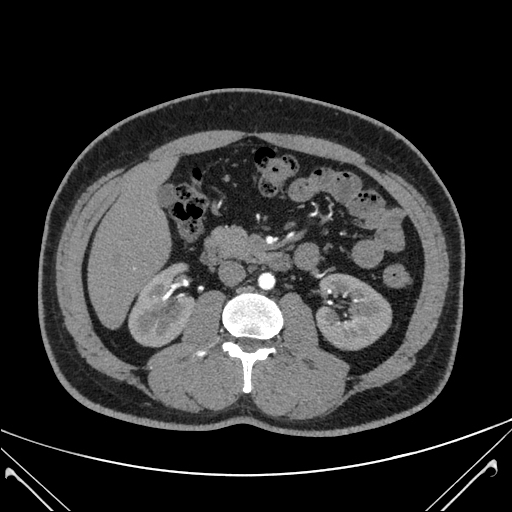
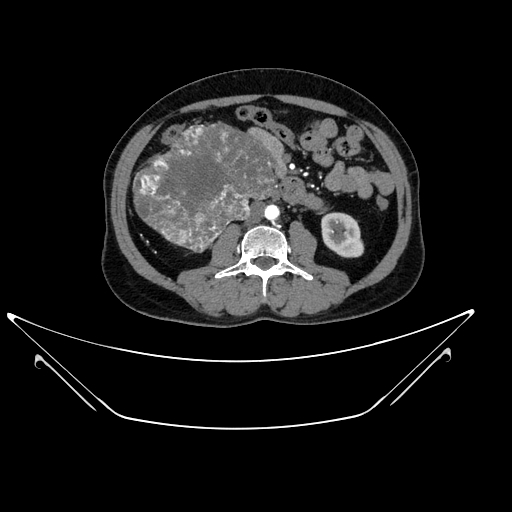
fix layers freeze

diff --git a/src/cnnClassifier/components/model_training.py b/src/cnnClassifier/components/model_training.py
@@ -31,7 +31,7 @@ class Training:
             **datagenerator_kwargs
         )
 
-        self.train_valid_generator = valid_datagenerator.flow_from_directory(
+        self.valid_generator = valid_datagenerator.flow_from_directory(
             directory=self.config.training_data,
             subset='validation',
             shuffle=False,
@@ -65,14 +65,14 @@ class Training:
 
     def train(self):
         self.steps_per_epoch = self.train_generator.samples // self.train_generator.batch_size
-        self.validation_steps = self.train_valid_generator.samples // self.train_valid_generator.batch_size
+        self.validation_steps = self.valid_generator.samples // self.valid_generator.batch_size
 
         self.model.fit(
             self.train_generator,
             epochs=self.config.params_epochs,
             steps_per_epoch=self.steps_per_epoch,
             validation_steps=self.validation_steps,
-            validation_data=self.train_valid_generator
+            validation_data=self.valid_generator
         )
 
         self.save_model(

diff --git a/src/cnnClassifier/components/prepare_base_model.py b/src/cnnClassifier/components/prepare_base_model.py
@@ -22,10 +22,10 @@ class PrepareBaseModel:
     def _prepare_full_model(model, classes, freeze_all, freeze_till, learning_rate):
         if freeze_all:
             for layer in model.layers:
-                model.trainable = False
+                layer.trainable = False
         elif (freeze_till is not None) and (freeze_till > 0):
             for layer in model.layers[:-freeze_till]:
-                model.trainable = False 
+                layer.trainable = False 
         
         flatten_in = tf.keras.layers.Flatten()(model.output)
         prediction = tf.keras.layers.Dense(
